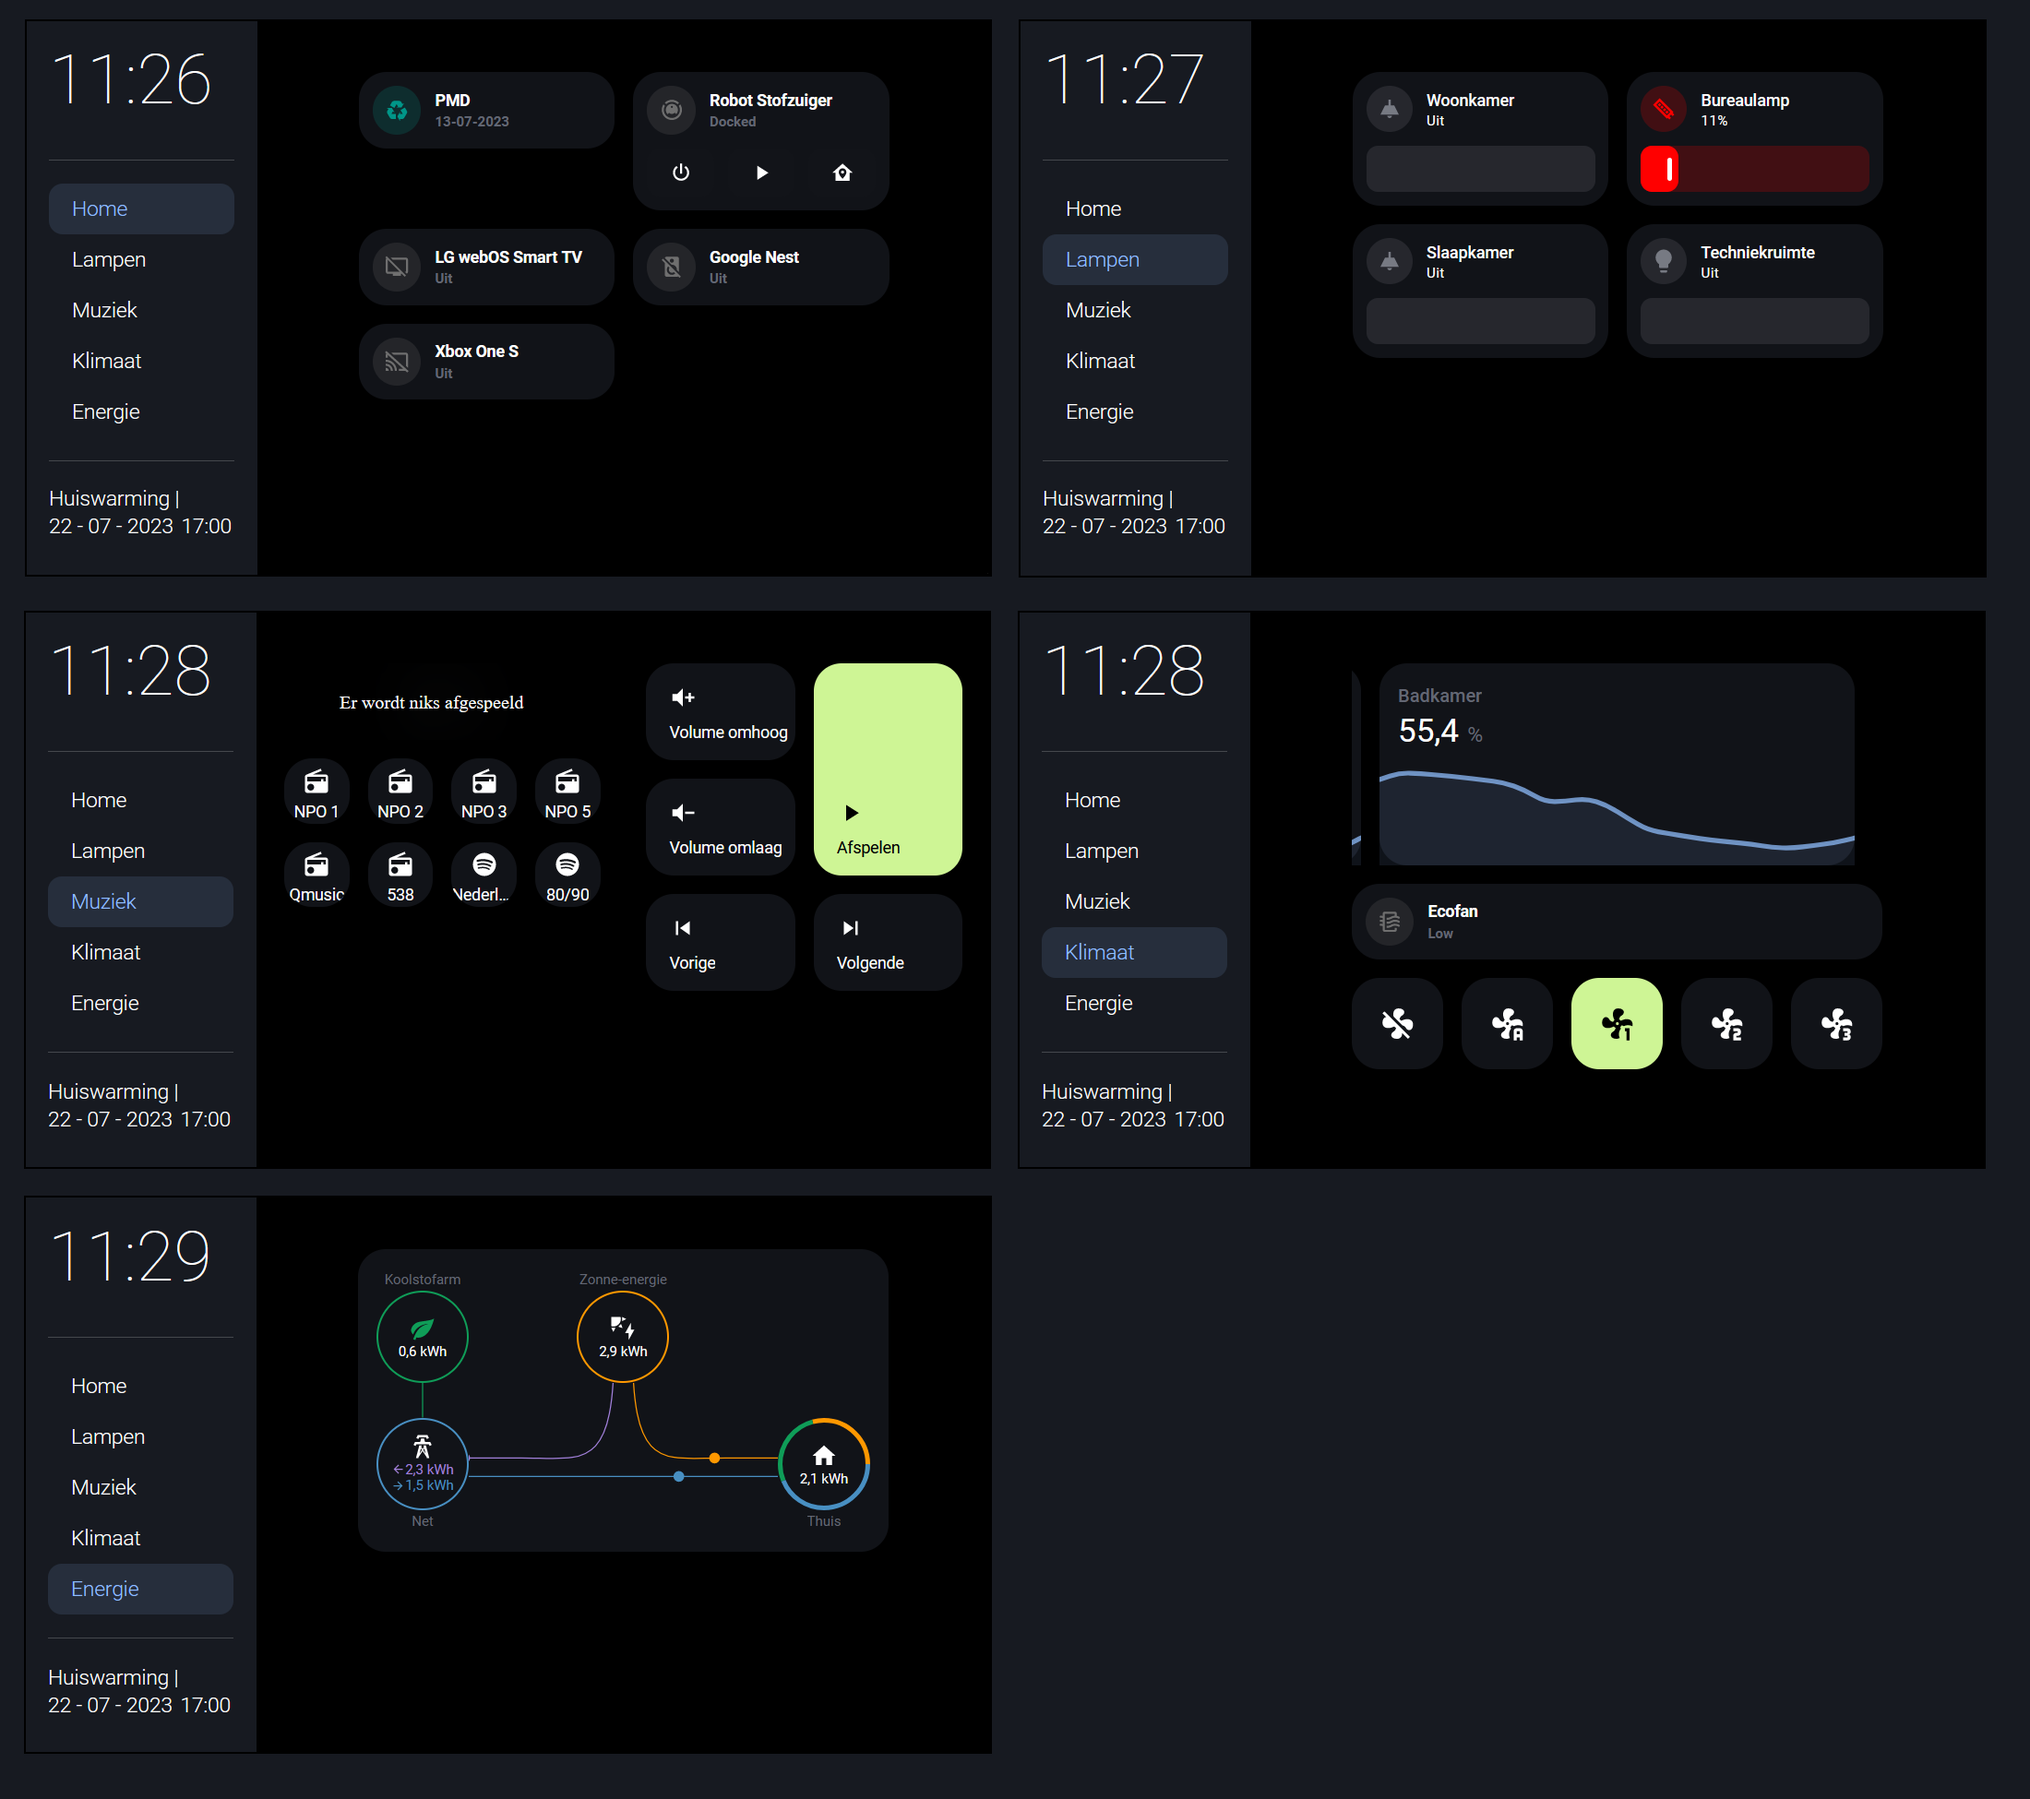
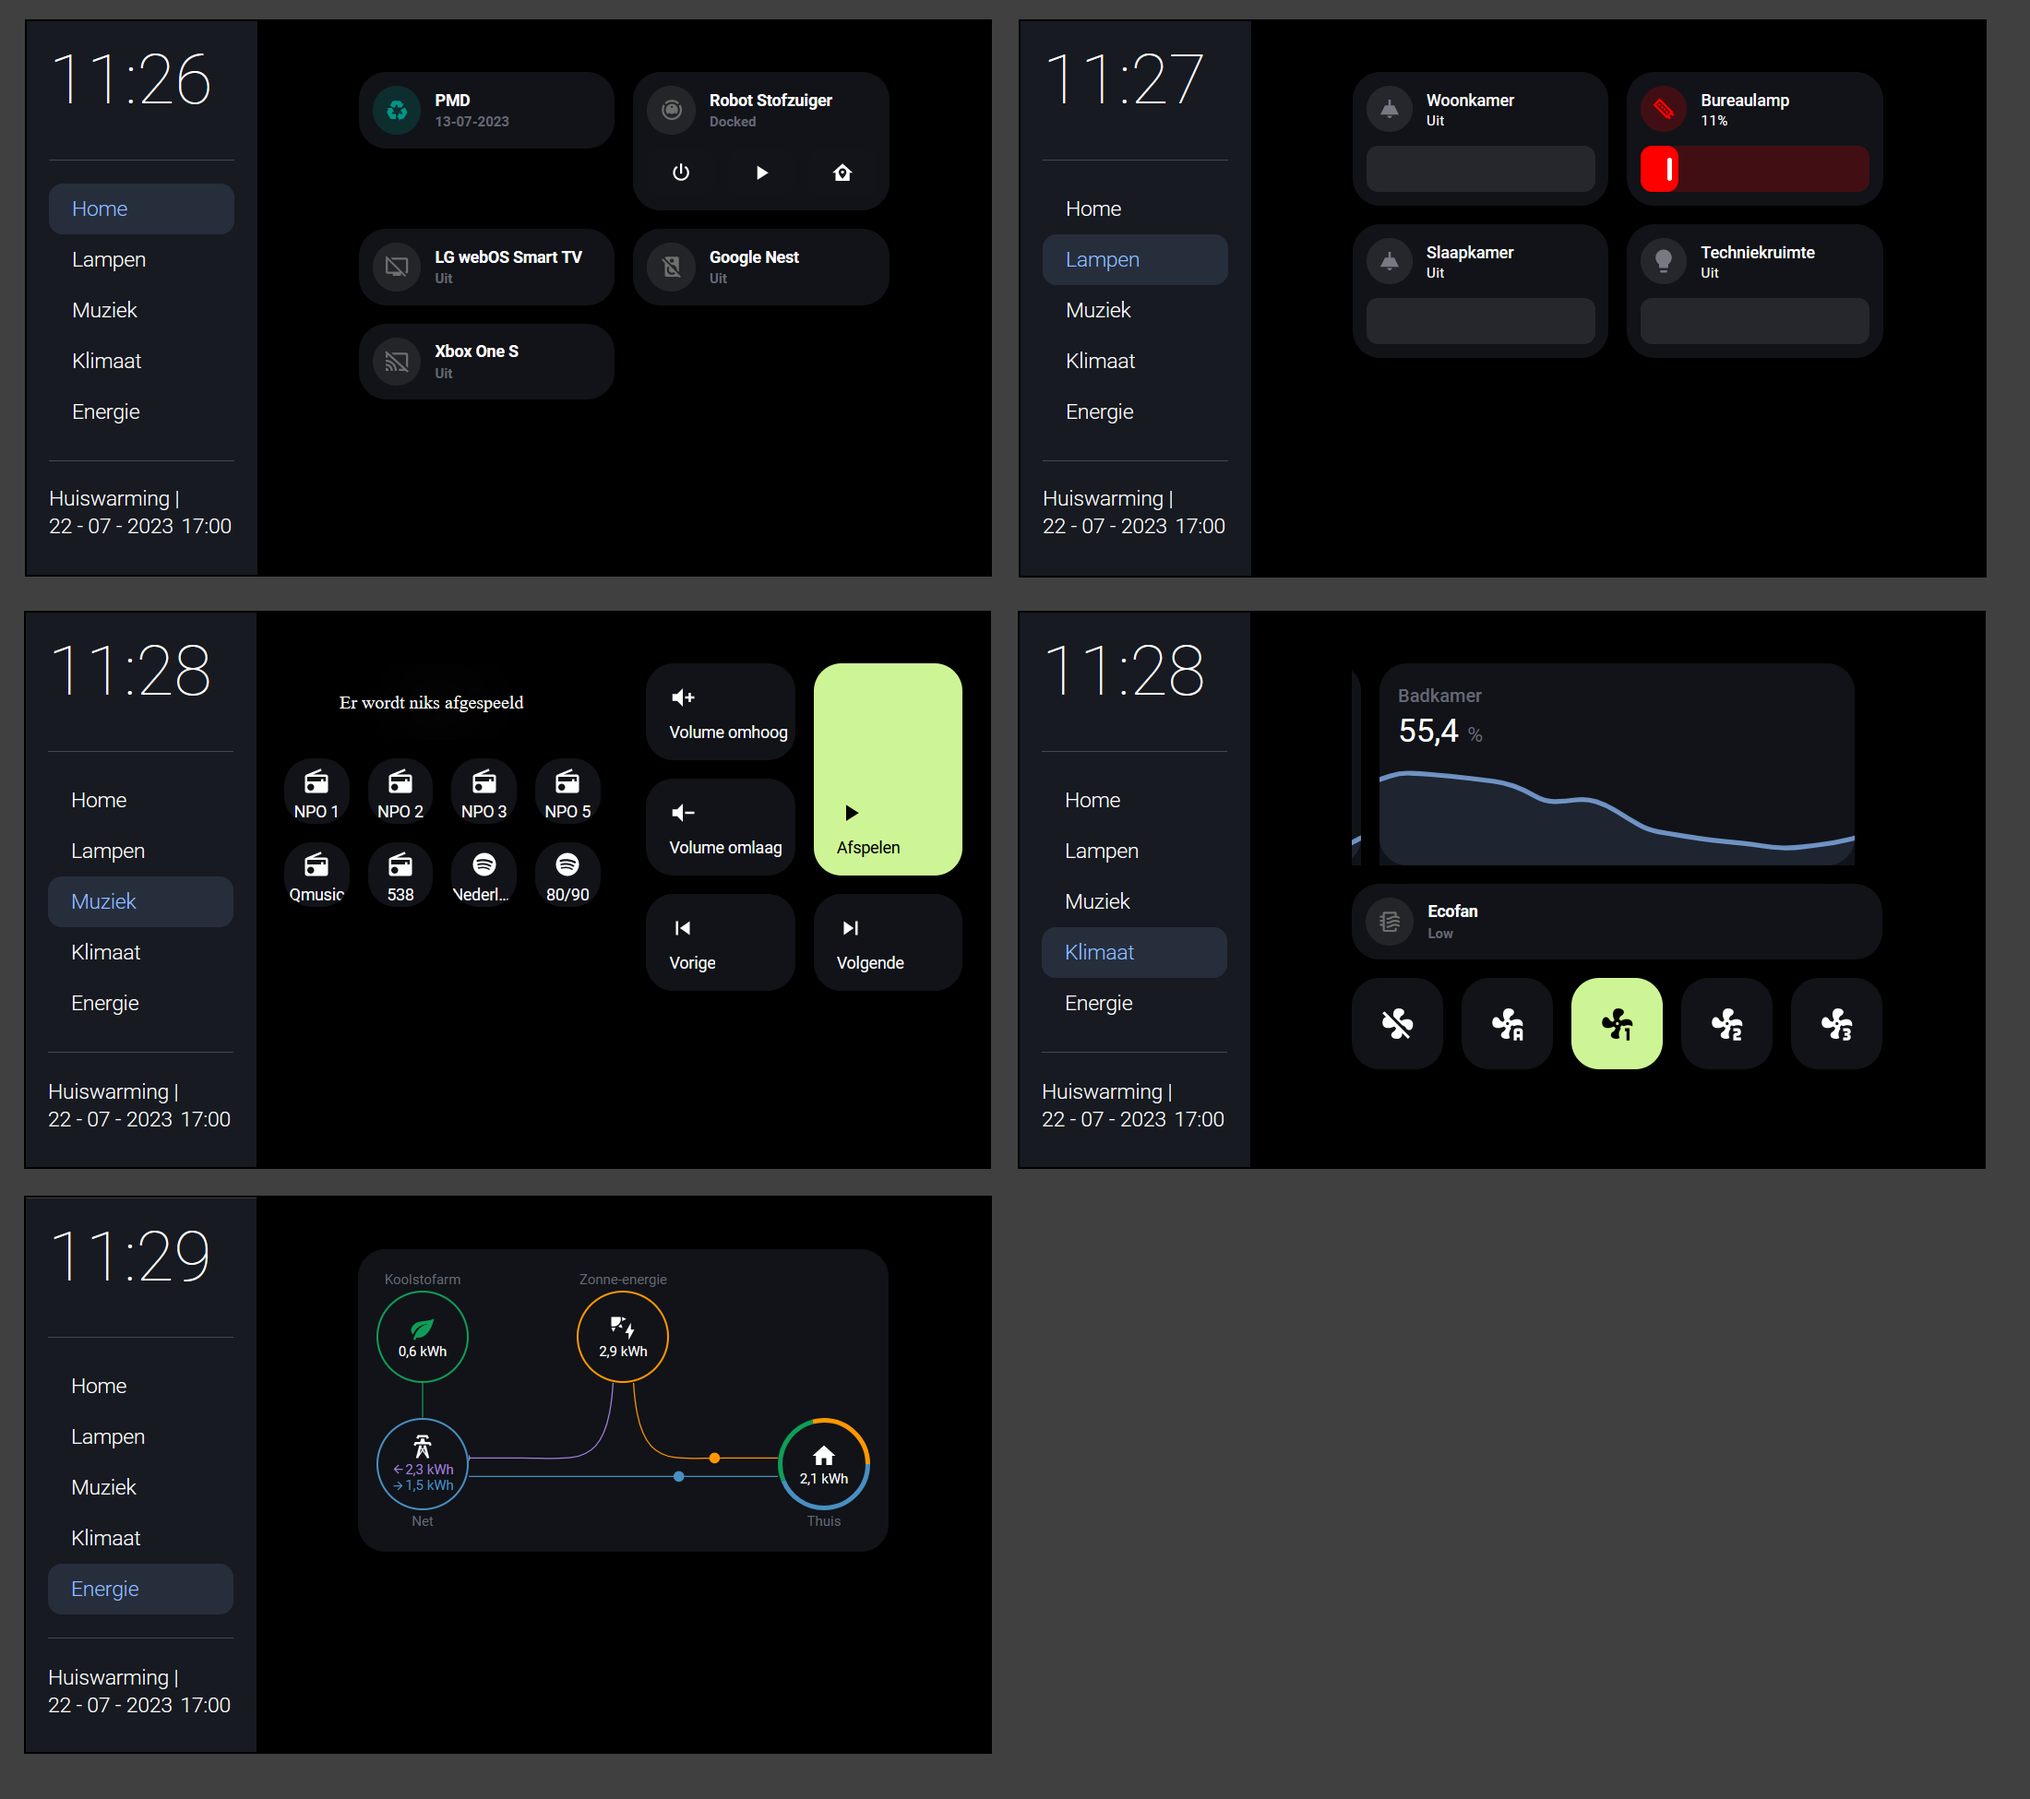
Small update

Changed region(s): [[0.0, 0.0, 1.0, 1.0]]

diff --git a/Home Assistant/README.md b/Home Assistant/README.md
@@ -46,7 +46,7 @@ Here i used the same theme as the Mobile Dashboard, but added a side bar using t
 <br>
 <br>
 <h2 align="center">
-<img src="https://github.com/NielsU97/HomeSmartServer/blob/main/www/Images/home_display.png" width="800">
+<img src="https://github.com/NielsU97/HomeSmartServer/blob/main/www/Images/hass_home_display.png" width="800">
 </h2>	
 </br>
 <p><a href="https://github.com/NielsU97/HomeDisplay" target="_blank">Klik Here</a> if you want to know how i display the dashboard on a Raspberry Pi</p>
